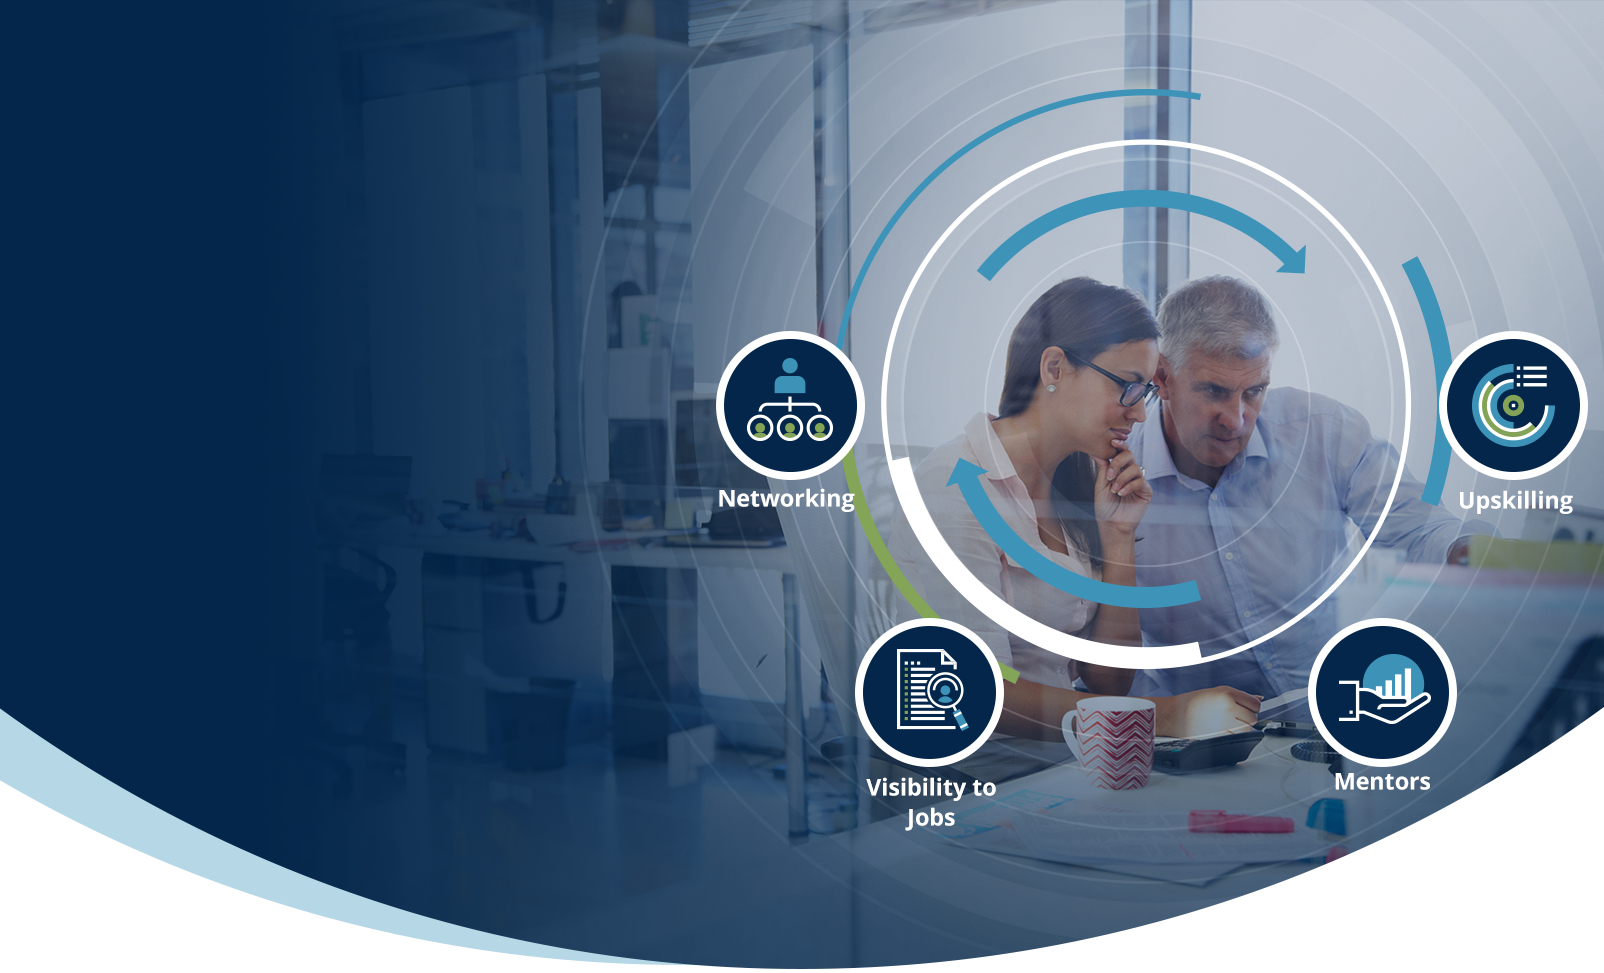
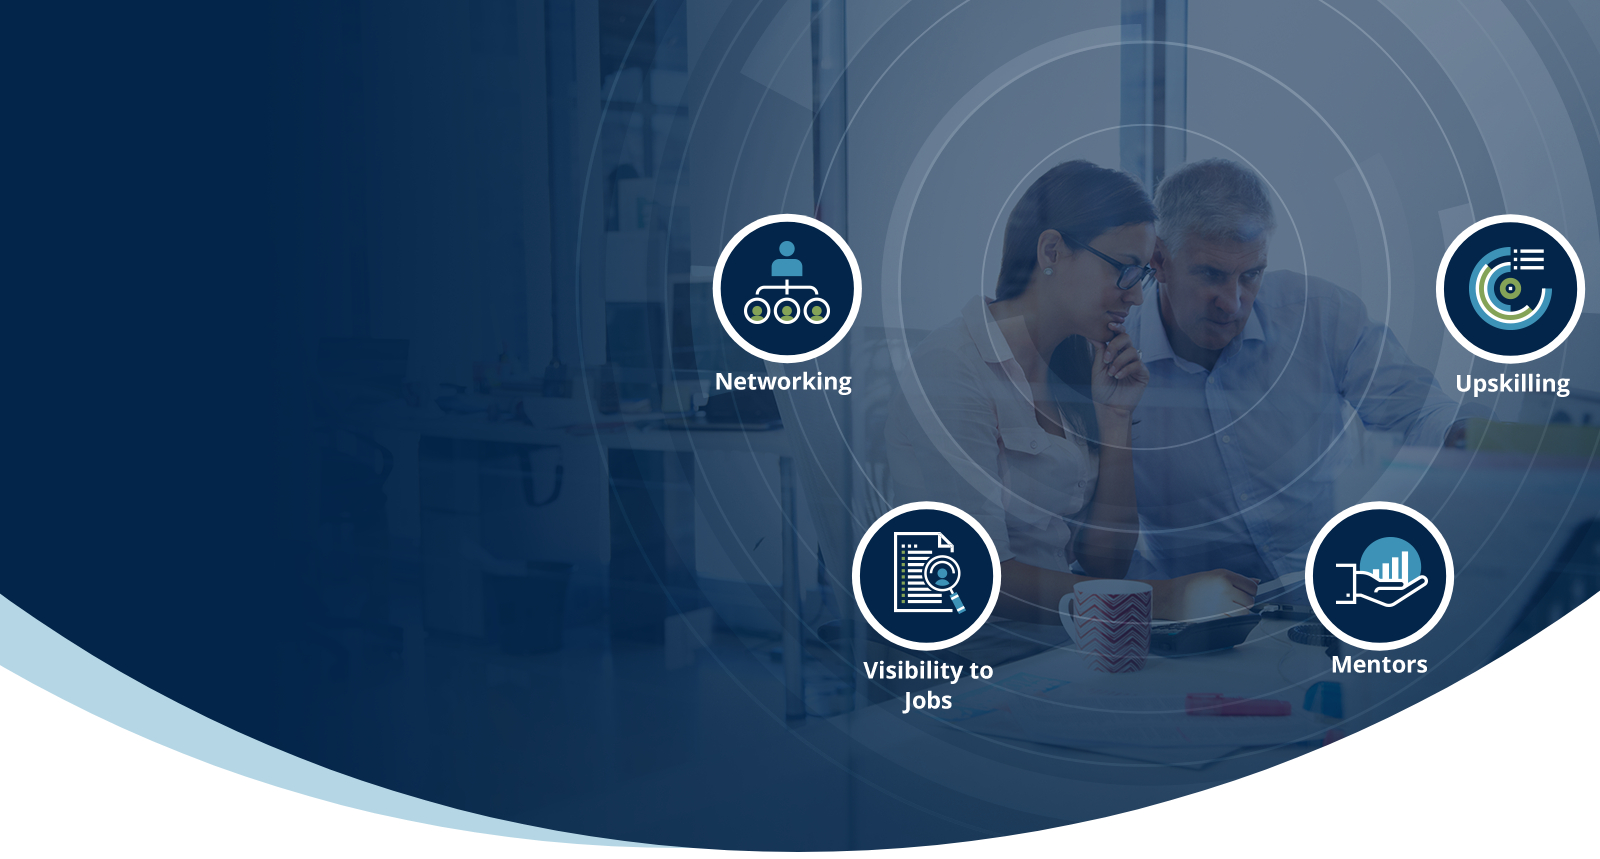
checking in updates to traitify call out and  assessment instructions

diff --git a/Product/WebApp/client/scss/_home.scss b/Product/WebApp/client/scss/_home.scss
@@ -176,21 +176,15 @@ body {
                 }
 
                 .signup-top-container-header {
-                    padding: 1.5rem;
                     color: white;
                     border-radius: 1rem;
                     font-weight: bold;
                     font-size: 1.3rem;
                 }
 
-                .traitify-header {
+                .traitify-container {
+                    font-size:1.6rem;
                     color: white;
-                    border-radius: 1rem;
-                    font-size: 2rem;
-                }
-
-                .traitify-details {
-                    color:white;
                 }
             }
 
@@ -450,7 +444,7 @@ body {
 
         #HomeContainer {
             #HomeContainerHero {
-                padding: 11rem 0;
+                padding: 17rem 0;
                 background-image: url('/images/hero_bannerbg_top.jpg');
                 background-size: cover;
                 background-position: bottom;
@@ -468,6 +462,13 @@ body {
 
                 .signup-top-container-header {
                     font-size: 1.3rem !important;
+                }
+
+                .traitify-container {
+                    margin-left:3rem;
+                    .traitify-btn {
+                        margin-left:8rem;
+                     }
                 }
             }
 

diff --git a/Product/WebApp/client/js/modules/traitify.js b/Product/WebApp/client/js/modules/traitify.js
@@ -31,9 +31,6 @@ class TraitifyCC {
             assessment.allowFullscreen();
             assessment.target("#traitify");
             assessment.render("SlideDeck");
-            $('#infoIcon').on('click', function (e) {
-                $('.traitify-info-modal').modal();
-            })
         }
 
         setUrl(assessmentId) {
